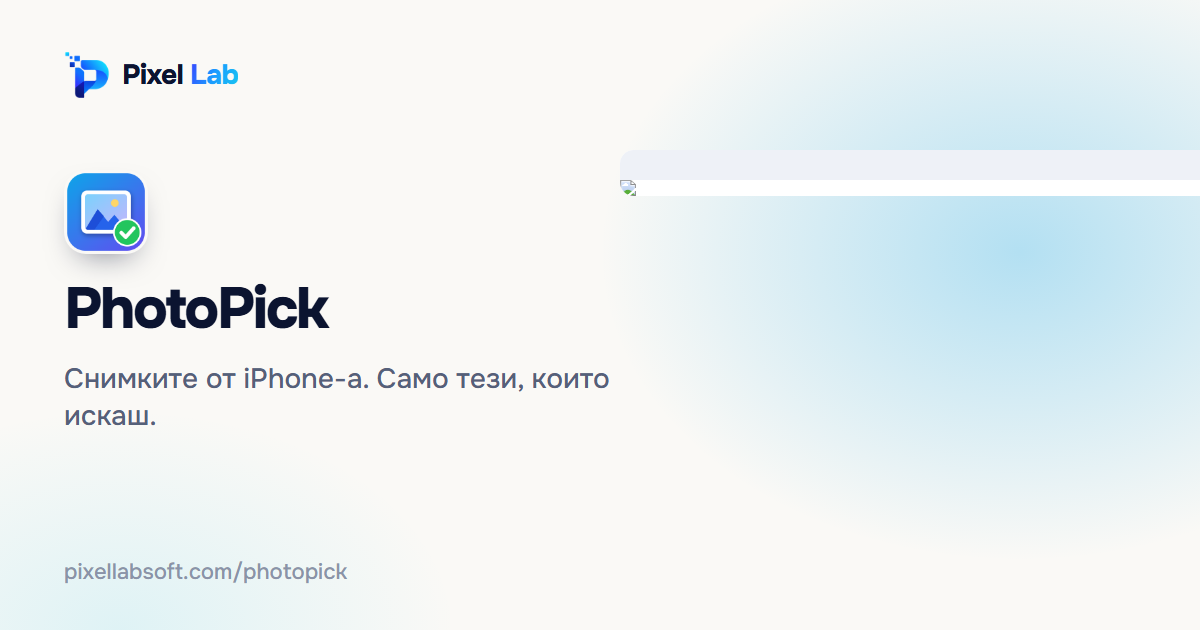
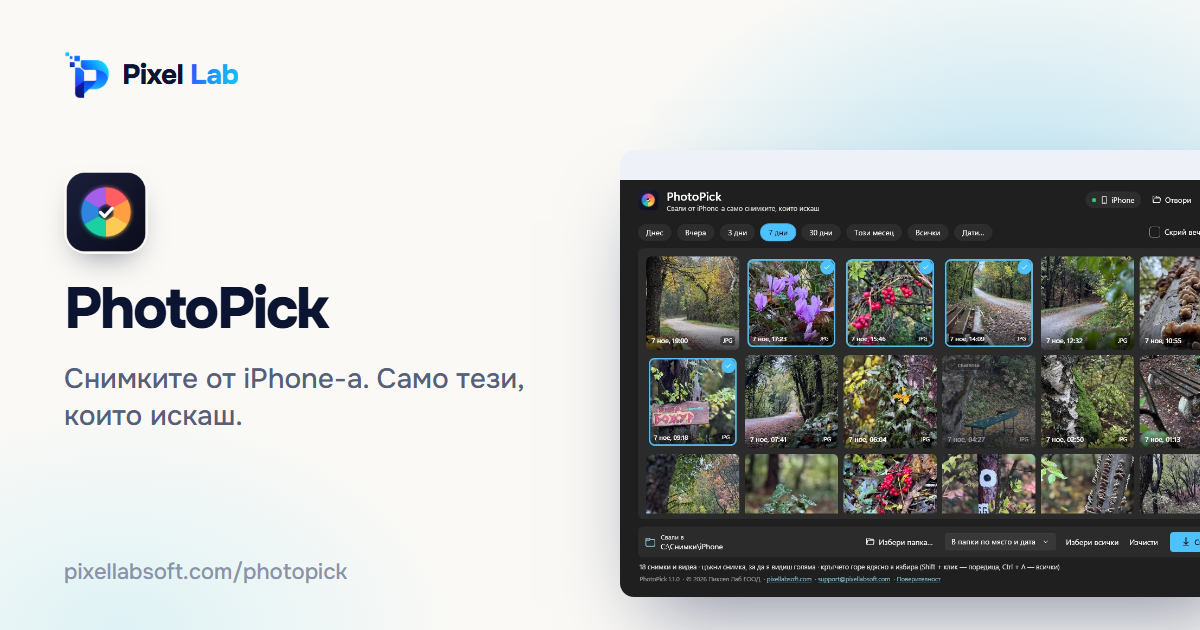
PhotoPick: real photos in the screenshot, fix the OG card window
The grid shows real autumn photos instead of drawn hills. The OG card
pointed to the removed photopick.webp; it now uses the per-language shot,
and the text column is narrower so the tagline does not run under the window.

Claude-Session: https://claude.ai/code/session_01Sz2Z8jWaToy8etAyooxsUv

diff --git a/tools/og.py b/tools/og.py
@@ -38,7 +38,7 @@ body{width:1200px;height:630px;overflow:hidden;font-family:Onest,sans-serif;back
 .bg{position:absolute;inset:0;background:radial-gradient(50% 70% at 85% 40%,color-mix(in srgb,var(--c) 30%,transparent),transparent 70%),radial-gradient(40% 50% at 10% 100%,rgba(24,195,240,.12),transparent 70%)}
 .brand{position:absolute;left:64px;top:52px;display:flex;align-items:center;gap:12px;font-weight:800;font-size:28px;letter-spacing:-.03em}
 .brand img{width:46px;height:46px}.lab{background:linear-gradient(115deg,#3a3dff,#1a9bff,#18c8f0);-webkit-background-clip:text;color:transparent}
-.txt{position:absolute;left:64px;top:170px;width:600px}
+.txt{position:absolute;left:64px;top:170px;width:540px}
 .ic{width:84px;height:84px;border-radius:22px;overflow:hidden;box-shadow:0 14px 30px -14px rgba(11,20,48,.5);margin-bottom:26px}.ic img{width:100%;height:100%}
 h1{font-size:64px;line-height:1.02;letter-spacing:-.04em;font-weight:800}
 h1 .g{background:linear-gradient(115deg,#3a3dff,#2163ff,#1a9bff,#18c8f0);-webkit-background-clip:text;color:transparent}
@@ -68,7 +68,9 @@ def card(lang, app=None):
         if app["slug"] in SHOTS:
             vis = f'<div class="ph" style="right:90px;top:80px;transform:rotate(4deg)"><img src="/assets/{app["slug"]}-{lang}.webp"></div>'
         elif app["slug"] in WIN:
-            vis = f'<div class="win"><div class="bar"></div><img src="/assets/{app["slug"]}.webp"></div>'
+            # one screen per language when there is one (photopick-bg.webp), else one for both (sortis.webp)
+            shot = f'{app["slug"]}-{lang}' if (SAJT / "src" / "assets" / f'{app["slug"]}-{lang}.webp').exists() else app["slug"]
+            vis = f'<div class="win"><div class="bar"></div><img src="/assets/{shot}.webp"></div>'
         else:
             vis = (f'<div class="ic" style="position:absolute;right:150px;top:170px;width:260px;height:260px;border-radius:64px">'
                    f'<img src="{app["iconImg"]}"></div>')
